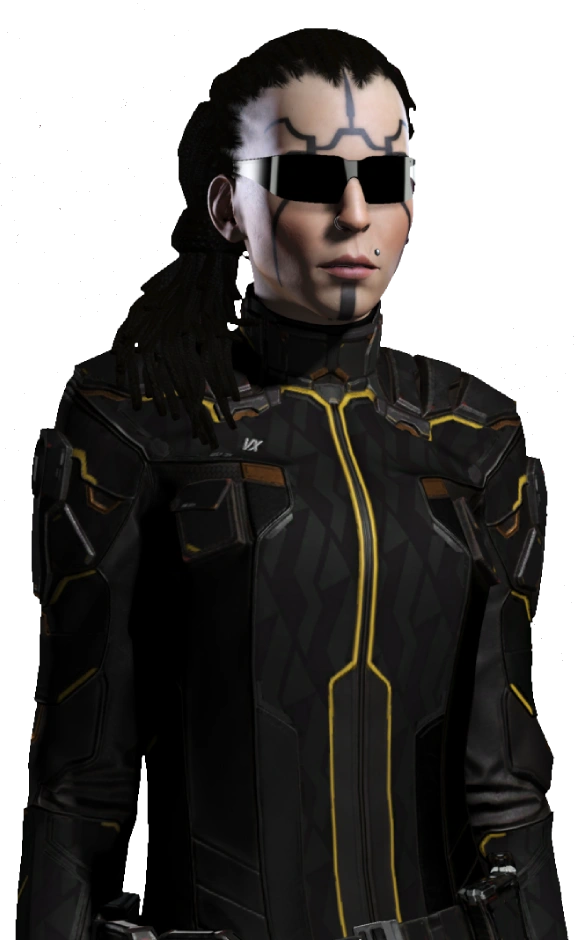
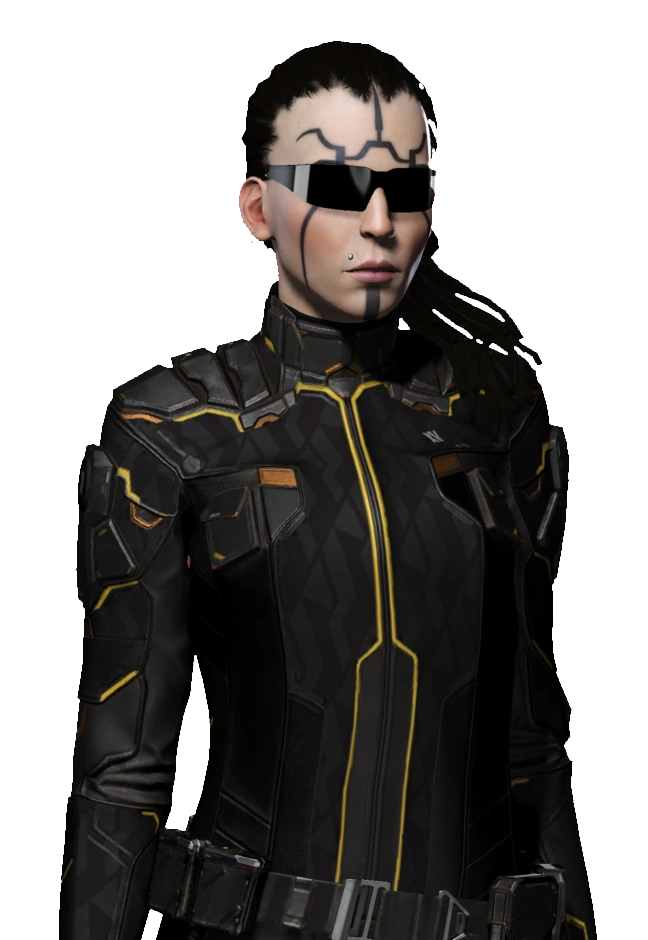
Enhance responsive by removing cropping from CEOs. Add L34RN CEOs

diff --git a/frontend/app/.astro/types.d.ts b/frontend/app/.astro/types.d.ts
@@ -1,2 +1,1 @@
 /// <reference types="astro/client" />
-/// <reference path="content.d.ts" />

diff --git a/frontend/app/src/i18n/ui.ts b/frontend/app/src/i18n/ui.ts
@@ -2600,5 +2600,6 @@ export const ui = {
         'your_current_timezone': 'Based upon your current timezone',
         'currently_busy': '⚠️ Currently in use. Come back later to check if the job is completed.',
         'opens_in_a_new_tab': 'Opens in a new tab',
+        'swipe_left_for_history': 'Swipe left to see past CEOs.',
     },
 } as const;